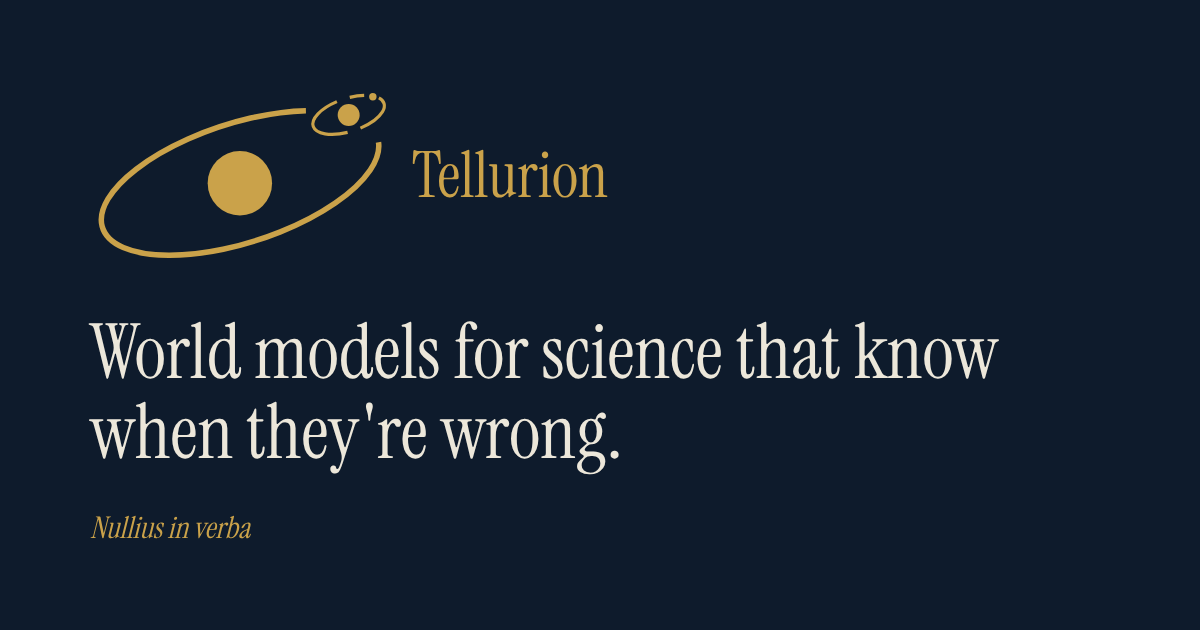
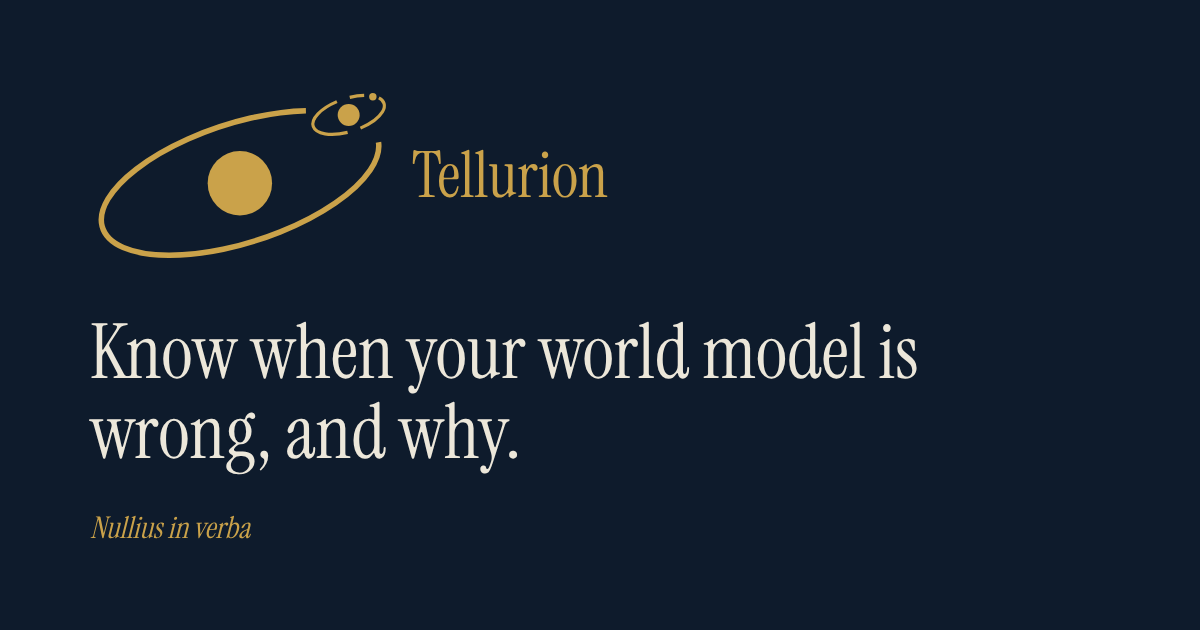
Headline: know when your world model is wrong, and why
Claude-Session: https://claude.ai/code/session_01VS3j3VdNthfRfk4qCdEvLA

Changed region(s): [[0.0617, 0.5127, 0.8325, 0.6333], [0.0925, 0.6333, 0.5242, 0.754]]

diff --git a/index.html b/index.html
@@ -3,13 +3,13 @@
 <head>
 <meta charset="utf-8">
 <meta name="viewport" content="width=device-width, initial-scale=1, viewport-fit=cover">
-<title>Tellurion — World models for science that know when they're wrong</title>
+<title>Tellurion — Know when your world model is wrong, and why</title>
 <meta name="description" content="Tellurion builds tools that check AI models of physical systems against reality, and say whether a disagreement is the model, the instrument, or something new.">
 <link rel="canonical" href="https://tellurionai.com/">
 <meta name="theme-color" content="#0E1B2C">
 <meta property="og:type" content="website">
 <meta property="og:site_name" content="Tellurion">
-<meta property="og:title" content="Tellurion — World models for science that know when they're wrong">
+<meta property="og:title" content="Tellurion — Know when your world model is wrong, and why">
 <meta property="og:description" content="Tools that check AI models of physical systems against reality, and say why they disagree.">
 <meta property="og:url" content="https://tellurionai.com/">
 <meta property="og:image" content="https://tellurionai.com/assets/img/og.png">
@@ -41,7 +41,7 @@
     <div class="wrap">
       <div class="hero-copy">
         <p class="eyebrow">Nullius in verba · take nobody's word for it</p>
-        <h1>World models for science that know when they're wrong.</h1>
+        <h1>Know when your world model is wrong, and why.</h1>
         <p class="lede" style="margin-top:28px">Scientists increasingly rely on AI models to predict how experiments and physical systems behave. We build tools that check those predictions against real measurements, and explain why they disagree when they do.</p>
         <div class="actions">
           <a class="btn btn-primary" href="research/">Read our first result</a>
